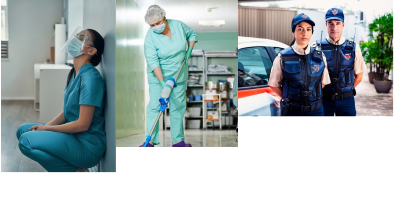
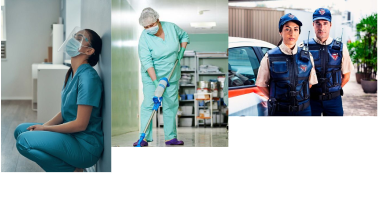
refactor: add width and height img tag

diff --git a/src/pages/Home/index.tsx b/src/pages/Home/index.tsx
@@ -3,8 +3,10 @@ import { Avatar, Grid, Typography, useMediaQuery } from '@mui/material';
 
 import imgWallpaper from '../../assets/juliana-rodrigues-advogada-manaus-wallpaper.webp';
 import imgWallpaperMobile from '../../assets/juliana-rodrigues-advogada-manaus-wallpaper-mobile.webp';
+
 import ArrowAnimated from '../../components/ArrowAnimated';
 import ButtonPulse from '../../components/ButtonPulse';
+
 import theme from '../../theme';
 
 interface HomeProps {
@@ -70,6 +72,7 @@ const Home: React.FC<HomeProps> = ({ children }) => {
                      <Avatar 
                         src={isMobile ? imgWallpaperMobile : imgWallpaper} 
                         alt={isMobile ? "juliana-rodrigues-direito-trabalhista-imagem-agente-limpeza-wallpaper-mobile" : "juliana-rodrigues-direito-trabalhista-imagem-agente-limpeza-wallpaper"}
+                        
                         sx={{
                            // border:"2px solid blue",
                            pb:{lg:0,xl:4},
@@ -78,14 +81,16 @@ const Home: React.FC<HomeProps> = ({ children }) => {
                            width:{xs:"auto",md:"130px",lg:"auto",xl:"600px"}
                         }}
                         imgProps={{
+                           width: isMobile ? "380px" : "600px",
+                           height: isMobile ? "200px" : "300px",
                            sx:{
                               // border:"2px solid red",
                               pb:{xs:1,md:0},
                               height:{xs:"200px",md:"200px",lg:"250px",xl:"300px"}, 
                               width:{xs:"380px",md:"400px",lg:"500px",xl:"600px"},
                            },
-                           srcSet: `${imgWallpaperMobile} 380w, ${imgWallpaperMobile} 500w, ${imgWallpaper} 600w`,
-                           sizes: `(max-width: 380px) 100vw, (max-width: 500px) 100vw, 600px`,
+                           // srcSet: `${imgWallpaperMobile} 380w, ${imgWallpaperMobile} 500w, ${imgWallpaper} 600w`,
+                           // sizes: `(max-width: 380px) 100vw, (max-width: 500px) 100vw, 600px`,
                         }}
                      />
 

diff --git a/src/pages/About/index.tsx b/src/pages/About/index.tsx
@@ -17,6 +17,14 @@ const About: React.FC<AboutProps> = () => {
    const textColorBlack = "#000";
    const backgroundColorWhite = "#b5b5b5" // 212534 // e9e7e1
 
+   const responsiveStyle = isMobile ? {
+      height: '120px', 
+      width:"120px",
+   } : {
+      height: '150px', 
+      width:"150px",
+   }
+
    return (
       <Grid id={"about"} container 
          sx={{
@@ -39,7 +47,10 @@ const About: React.FC<AboutProps> = () => {
                >
                   <Grid item xs={12} sx={{pt:{xs:4,lg:6,xl:7}}}></Grid>
                   <Grid item xs={4} lg={9} xl={7} sx={{display:"flex",justifyContent:"center",pb:{xs:1,lg:1.5,xl:1.5}}}>
-                     <Avatar src={isMobile ? avatarIMGMOBILE : avatarIMG } alt={isMobile ? "juliana-rodrigues-advogada-mobile" : "juliana-rodrigues-advogada-desktop"}  // 
+                     <Avatar 
+                        src={isMobile ? avatarIMGMOBILE : avatarIMG } 
+                        alt={isMobile ? "juliana-rodrigues-advogada-mobile" : "juliana-rodrigues-advogada-desktop"} 
+                         
                         sx={{
                            opacity:0.9, 
                            // border:"1px solid blue",
@@ -47,11 +58,14 @@ const About: React.FC<AboutProps> = () => {
                            width:{xs:"120px",md:"130px",lg:"140px",xl:"150px"}
                         }}
                         imgProps={{
+                           width: isMobile ? "120px" : "150px",
+                           height: isMobile? "120px" : "150px",
                            sx:{
                               // border:"5px solid red",
                               height:{xs:"120px",md:"130px",lg:"140px",xl:"150px"}, 
                               width:{xs:"120px",md:"130px",lg:"140px",xl:"150px"},
                            },
+                           style:responsiveStyle,
                            srcSet: `${avatarIMGMOBILE} 380w, ${avatarIMG} 500w, ${avatarIMG} 600w`,
                            sizes: `(max-width: 380px) 100vw, (max-width: 500px) 100vw, 600px`,
                            // loading:"lazy"
